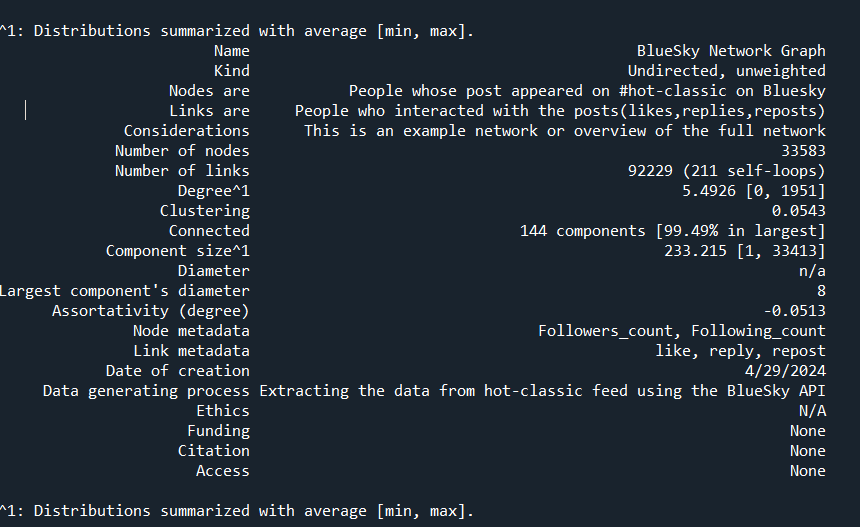
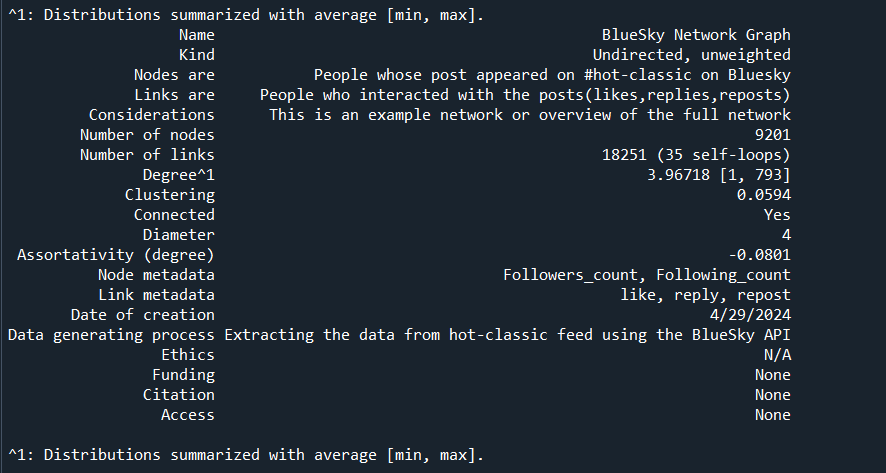
Making the repo public

Changed region(s): [[0.0, 0.0, 0.9674, 0.9175], [0.0, 0.9471, 0.5442, 1.0]]

diff --git a/Bsky_network_card.tex b/Bsky_network_card.tex
@@ -6,15 +6,13 @@ Nodes are & People whose post appeared on \#hot-classic on Bluesky \\
 Links are & People who interacted with the posts(likes,replies,reposts) \\
 Considerations & This is an example network or overview of the full network \\
 \midrule
-Number of nodes & 33583 \\
-Number of links & 92229 (211 self-loops) \\
-Degree\tablefootnote{\label{foot0}Distributions summarized with average [min, max].} & 5.4926 [0, 1951] \\
-Clustering & 0.0543 \\
-Connected & 144 components [99.49\% in largest] \\
-Component size\textsuperscript{\ref{foot0}} & 233.215 [1, 33413] \\
-Diameter & n/a \\
-Largest component's diameter & 8 \\
-Assortativity (degree) & -0.0513 \\
+Number of nodes & 9201 \\
+Number of links & 18251 (35 self-loops) \\
+Degree\tablefootnote{\label{foot0}Distributions summarized with average [min, max].} & 3.96718 [1, 793] \\
+Clustering & 0.0594 \\
+Connected & Yes \\
+Diameter & 4 \\
+Assortativity (degree) & -0.0801 \\
 \midrule
 Node metadata & Followers\_count, Following\_count \\
 Link metadata & like, reply, repost \\

diff --git a/project_data.py b/project_data.py
@@ -413,13 +413,10 @@ class Mapping(UserData):
        jwt (str): The JSON Web Token (JWT) for authentication.
        init_feed (list): A list of initial feed data.
        client (Client): An instance of the Bluesky API client.
-       g1 (networkx.Graph): The first network graph instance.
-       g2 (networkx.Graph): The second network graph instance.
-
+       
    Attributes:
        init_feed (list): A list of initial feed data.
-       g1 (networkx.Graph): The first network graph instance.
-       g2 (networkx.Graph): The second network graph instance.
+       
    """
     def __init__(self,jwt,init_feed,client):
         super().__init__(init_feed,client,jwt)
@@ -537,7 +534,6 @@ def net_card(G):
 
     # Create network card
     card = nc.NetworkCard(G)
-    print(card)
     card.update_overall("Name", "BlueSky Network Graph")
     card.update_overall("Nodes are", "People whose post appeared on #hot-classic on Bluesky")
     card.update_overall("Links are", "People who interacted with the posts(likes,replies,reposts)")

diff --git a/Analysis.py b/Analysis.py
@@ -1,8 +1,8 @@
 import networkx as nx
 import matplotlib.pyplot as plt
 
-G = nx.read_gml('n17.gml')
-
+G = nx.read_gml('n18.gml')
+"""
 # Apply Force-Directed layout algorithm to position nodes
 def mixing_analysis(graph, attribute):
     assortativity_coefficient = nx.attribute_assortativity_coefficient(graph, attribute)
@@ -46,7 +46,7 @@ detect_communities(G)
 ### Step 4: Ranking Methodologies (PageRank)
 #Finally, let's use PageRank to rank the nodes in the network based on their influence.
 
-
+"""
 def rank_nodes(graph):
     pagerank = nx.pagerank(graph)
     # Sort nodes by PageRank scores in descending order

diff --git a/README.md b/README.md
@@ -18,8 +18,8 @@ The Network itself:
 You can find the network file in the gml format: [Network](https://github.com/vgentela/Statistical-Network-Analysis/blob/main/n17.gml)
 
 To be fixed:
-- There are a couple of fucntions that need fixing, such as the worker and rec function that recursively extract data from feeds found in the current feed until you reach a termination condition.
 - Parsing functions to be refined by using json.
+- Once the parsing methodology is changed, reading the community tag and adding it to plots is a functionality to be achieved.
   
 License:
 All the contents in this repository are licensed using [CC0 1.0 Universal LICENSE](https://github.com/vgentela/Statistical-Network-Analysis/blob/main/LICENSE)
